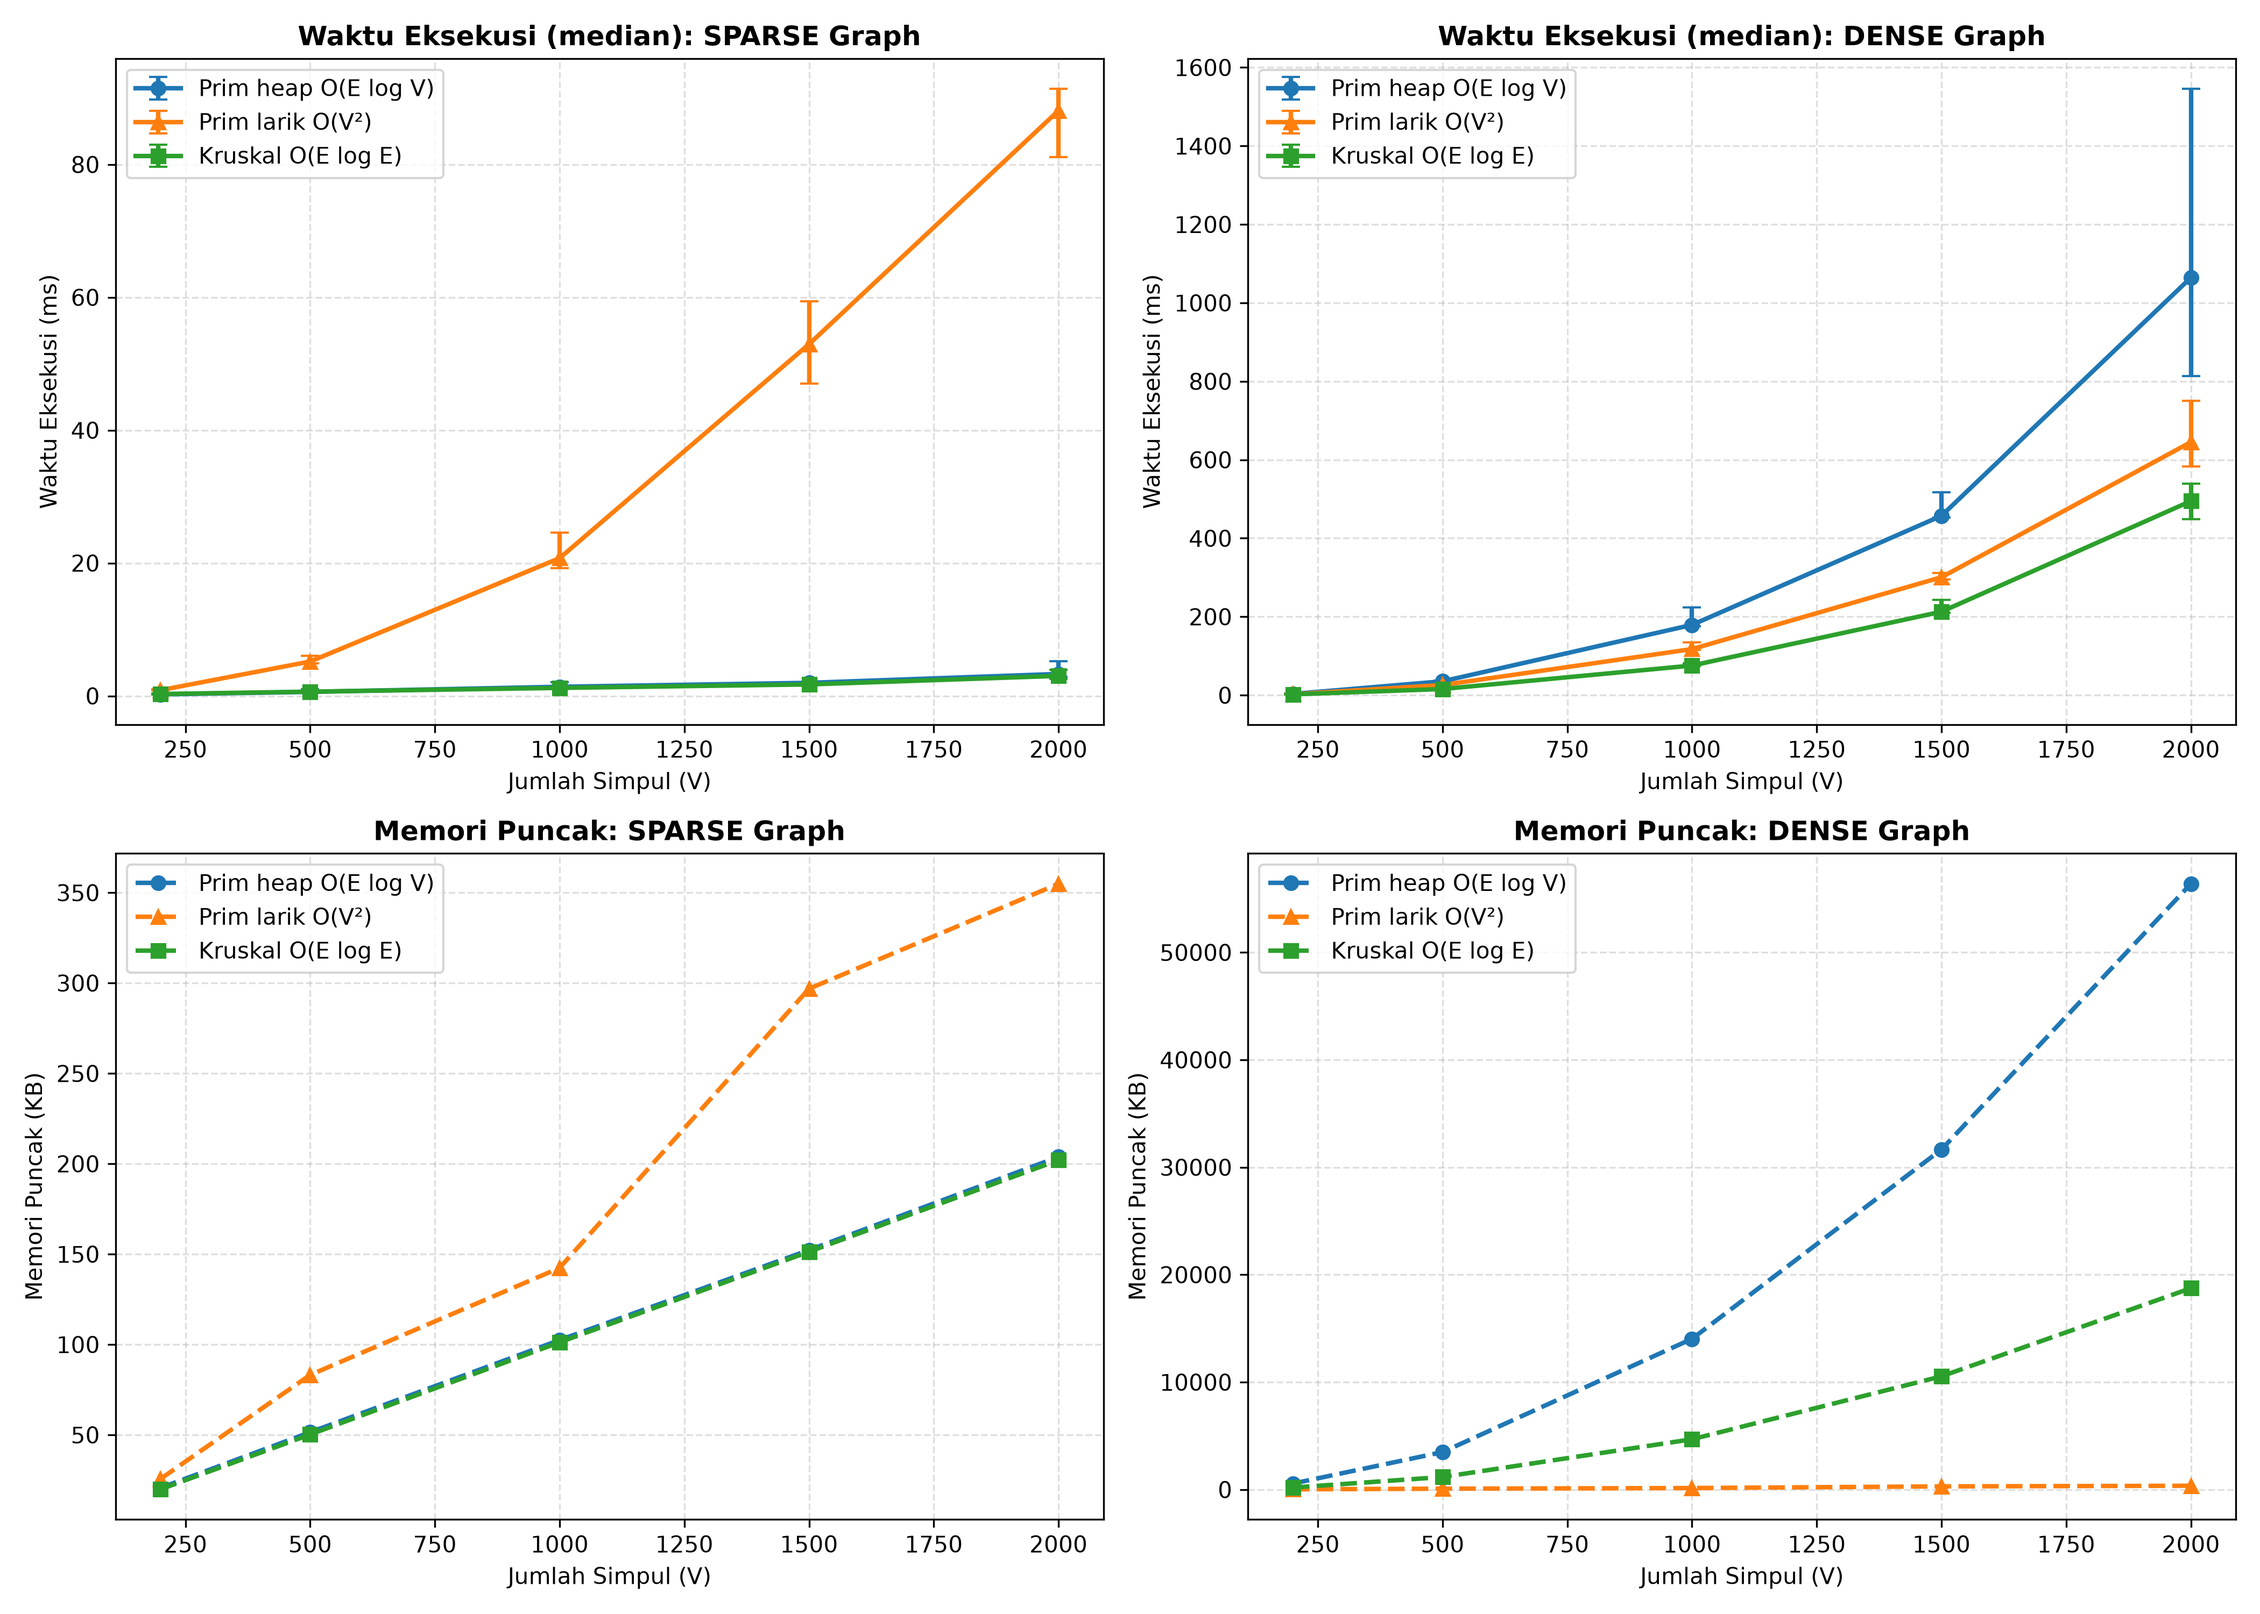
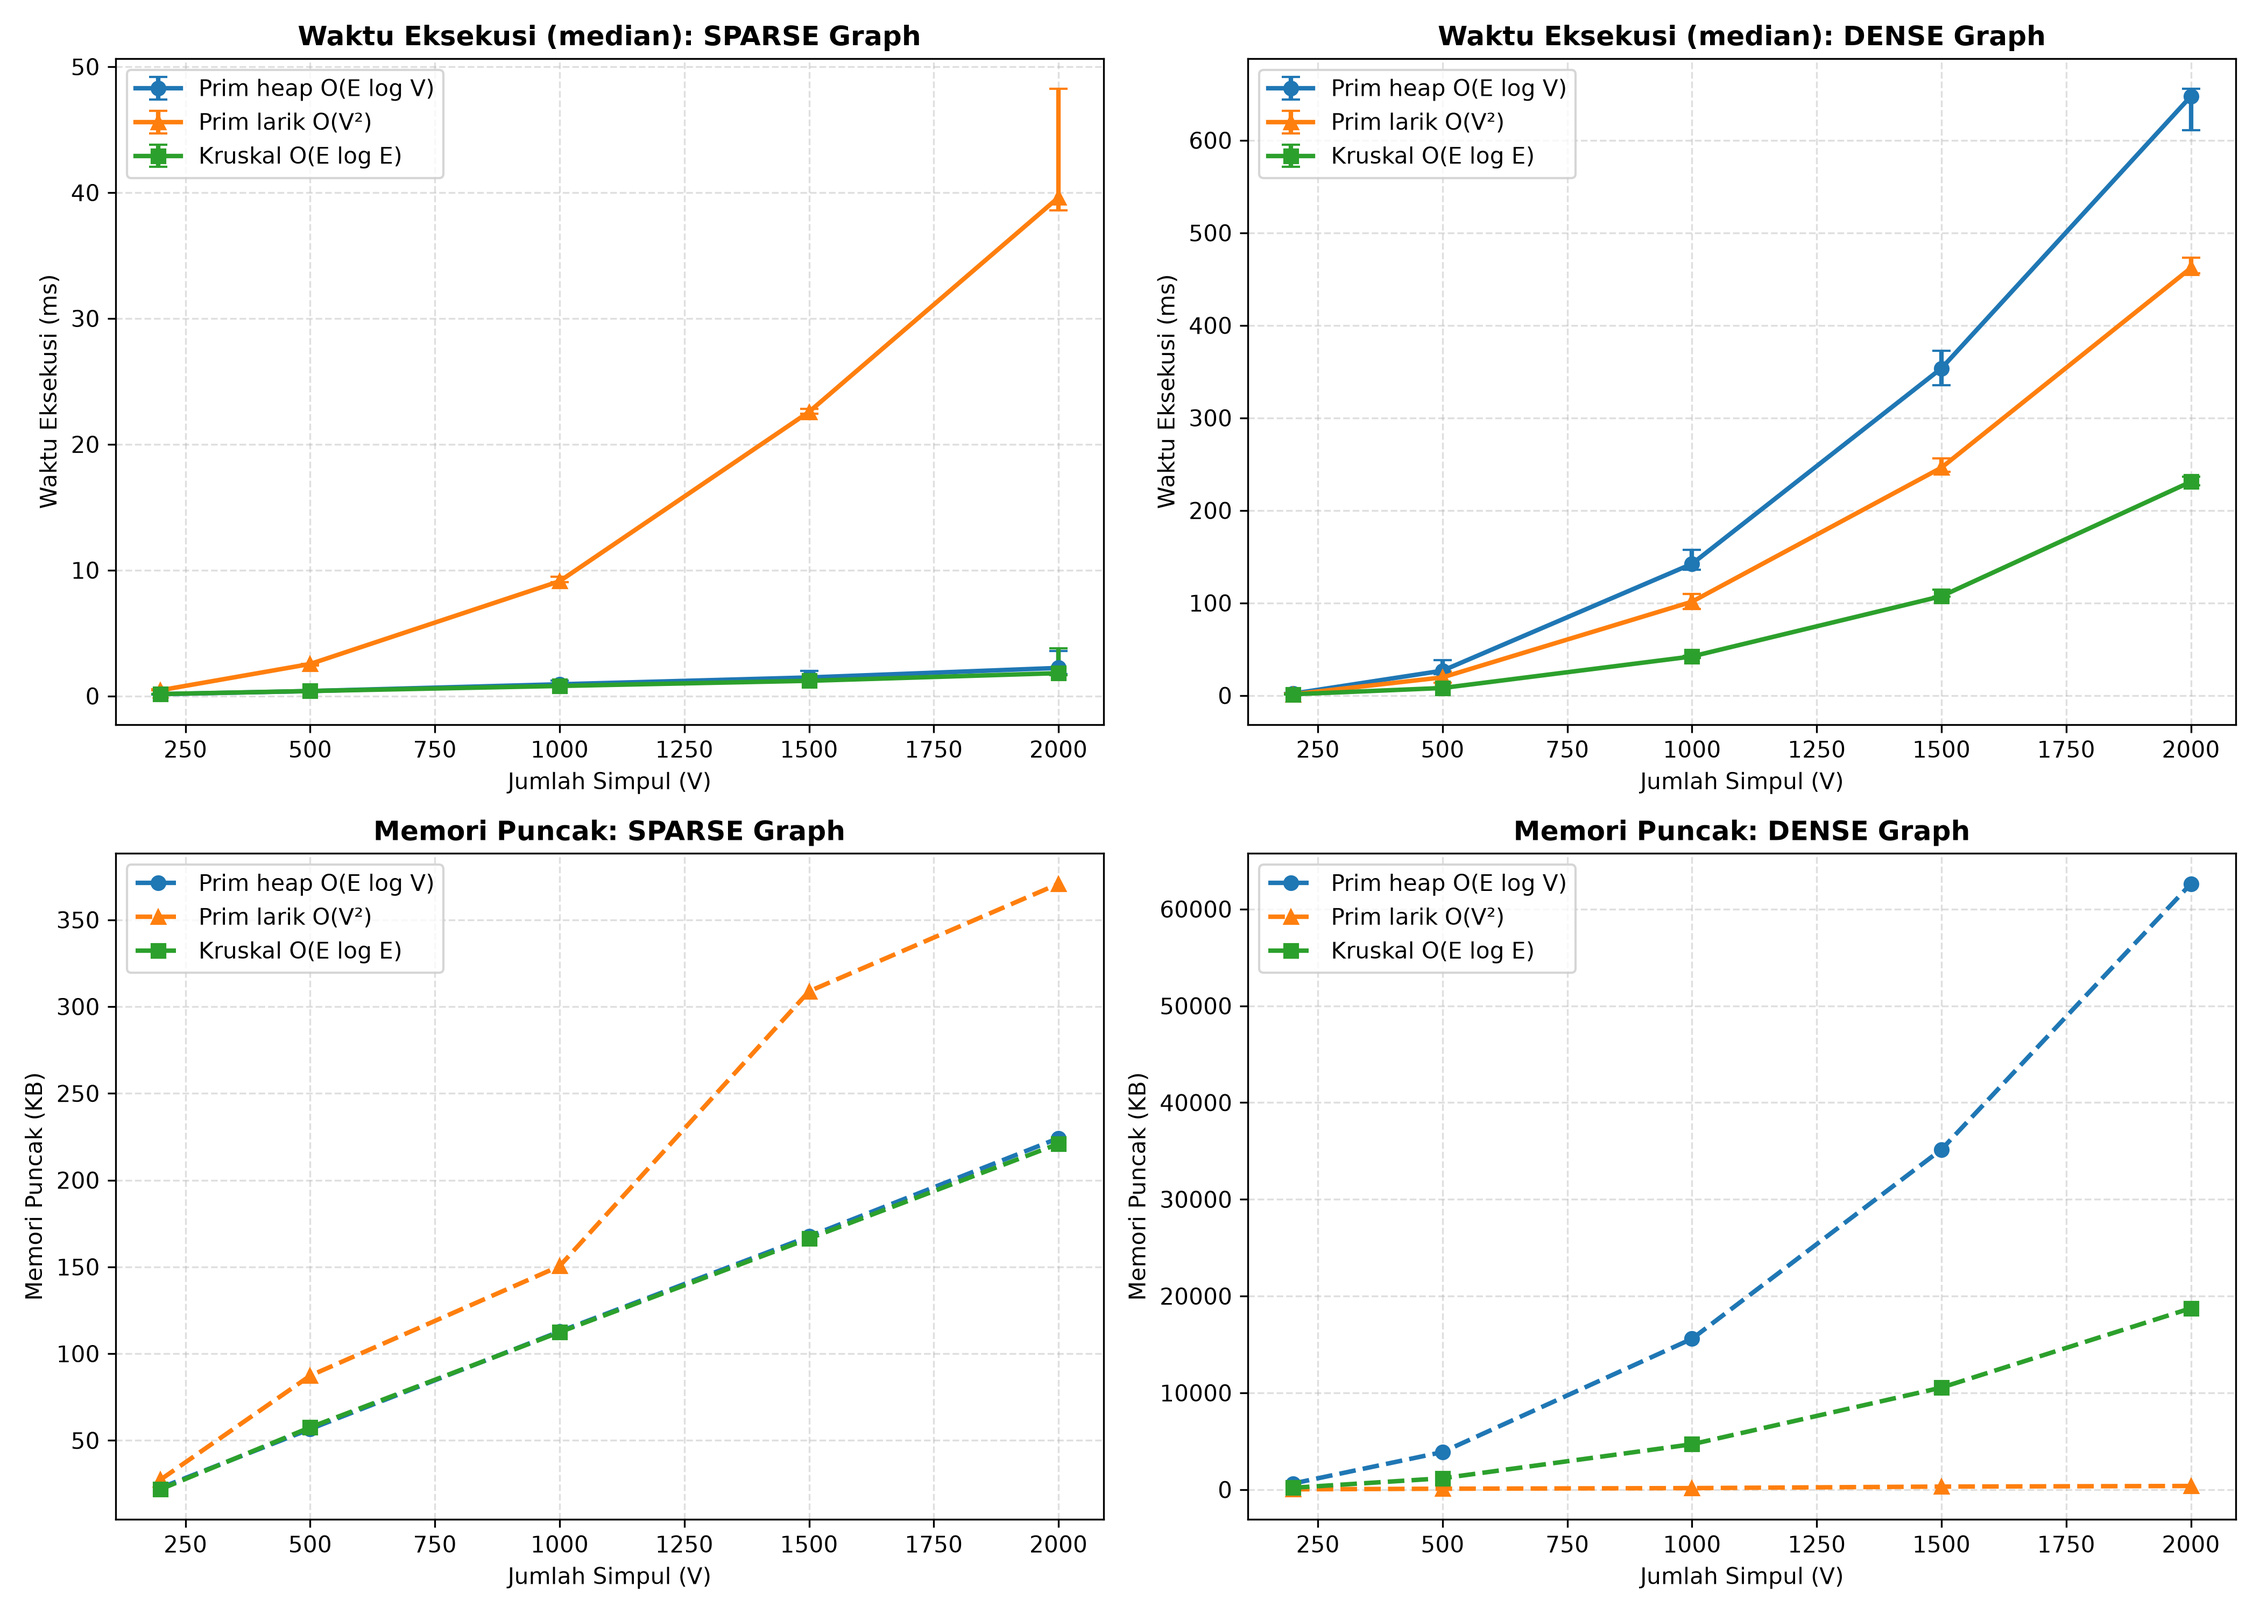
Merapikan format output CSV

diff --git a/src/evaluation/benchmark.py b/src/evaluation/benchmark.py
@@ -87,12 +87,32 @@ def measure_algorithm(func: Callable, *args, repeats: int = 5) -> Dict[str, Any]
 
 def save_osm_summary_csv(rows: List[Dict[str, Any]], output_csv_path: str) -> None:
     os.makedirs(os.path.dirname(output_csv_path), exist_ok=True)
-    with open(output_csv_path, mode="w", newline="", encoding="utf-8") as f:
-        writer = csv.DictWriter(f, fieldnames=list(rows[0].keys()))
+    with open(output_csv_path, mode="w", newline="", encoding="utf-8-sig") as f:
+        writer = csv.DictWriter(
+            f, fieldnames=list(rows[0].keys()), delimiter=";"
+        )
         writer.writeheader()
         writer.writerows(rows)
     print(f"-> Ringkasan studi kasus OSM disimpan ke '{output_csv_path}'")
 
+def save_aligned_table(rows: List[Dict[str, Any]], output_txt_path: str) -> None:
+    if not rows:
+        return
+    os.makedirs(os.path.dirname(output_txt_path), exist_ok=True)
+    headers = list(rows[0].keys())
+    col_widths = {
+        h: max(len(str(h)), max(len(str(r[h])) for r in rows)) for h in headers
+    }
+
+    header_line = " | ".join(f"{h:<{col_widths[h]}}" for h in headers)
+    separator_line = "-+-".join("-" * col_widths[h] for h in headers)
+
+    with open(output_txt_path, mode="w", encoding="utf-8") as f:
+        f.write(header_line + "\n")
+        f.write(separator_line + "\n")
+        for r in rows:
+            f.write(" | ".join(f"{str(r[h]):<{col_widths[h]}}" for h in headers) + "\n")
+    print(f"-> Tabel rapi disimpan ke '{output_txt_path}'")
 
 def save_environment(env: Dict[str, Any], path: str) -> None:
     os.makedirs(os.path.dirname(path), exist_ok=True)
@@ -166,9 +186,9 @@ def run_scalability_benchmark(
                 kb = measure_peak_kb(func, *inputs[kind])
                 for key, val in (("med", med), ("min", lo), ("max", hi), ("kb", kb)):
                     results[density][name][key].append(val)
-                row[f"{name}_ms_median"] = round(med, 4)
-                row[f"{name}_ms_min"] = round(lo, 4)
-                row[f"{name}_ms_max"] = round(hi, 4)
+                row[f"{name}_ms_median"] = round(med, 2)
+                row[f"{name}_ms_min"] = round(lo, 2)
+                row[f"{name}_ms_max"] = round(hi, 2)
                 row[f"{name}_peak_kb"] = round(kb, 2)
             row.update(prim_heap_counts(v, adj_list))
             row.update(kruskal_scan_count(v, edges))
@@ -182,10 +202,13 @@ def run_scalability_benchmark(
                 )
             )
 
-    with open(output_csv_path, mode="w", newline="", encoding="utf-8") as f:
-        writer = csv.DictWriter(f, fieldnames=list(csv_rows[0].keys()))
+    with open(output_csv_path, mode="w", newline="", encoding="utf-8-sig") as f:
+        writer = csv.DictWriter(
+            f, fieldnames=list(csv_rows[0].keys()), delimiter=";"
+        )
         writer.writeheader()
         writer.writerows(csv_rows)
+        
 
     print(f"\n-> Tabel hasil benchmark disimpan ke '{output_csv_path}'")
     return results

diff --git a/main.py b/main.py
@@ -8,6 +8,7 @@ from src.evaluation.benchmark import (
     collect_environment,
     measure_algorithm,
     run_scalability_benchmark,
+    save_aligned_table,
     save_environment,
     save_osm_summary_csv,
 )
@@ -57,22 +58,19 @@ def run_osm_case_study(repeats: int) -> None:
         total_raw = sum(w for _, _, w in edges)
         selisih = total_raw - total_mst
         row = {
-            "Radius_m": radius_m,
-            "Network_Type": net_type,
+            "Skenario": f"{radius_m}m ({net_type})",
             "V": num_v,
             "E": num_e,
-            "E_per_V": round(num_e / num_v, 3),
-            "Sisi_MST": len(mst_kruskal),
-            "Sisi_Penutup_Loop_Dibuang": num_e - (num_v - 1),
-            "Panjang_Semua_Ruas_m": round(total_raw, 2),
-            "Panjang_MST_m": round(total_mst, 2),
-            "Selisih_m": round(selisih, 2),
+            "E/V": round(num_e / num_v, 2),
+            "Loop_Dibuang": num_e - (num_v - 1),
+            "Total_Ruas_m": round(total_raw, 2),
+            "MST_m": round(total_mst, 2),
             "Selisih_persen": round(selisih / total_raw * 100.0, 2),
-            "Biaya_Ilustratif_MST_Rp": round(total_mst * BIAYA_PER_METER),
+            "Biaya_MST_Rp": f"{round(total_mst * BIAYA_PER_METER):,}",
         }
         for name, m in metrics.items():
-            row[f"{name}_ms_median"] = round(m["time_ms"], 4)
-            row[f"{name}_peak_kb"] = round(m["peak_kb"], 2)
+            row[f"{name}_ms"] = round(m["time_ms"], 2)
+            row[f"{name}_kb"] = round(m["peak_kb"], 2)
         rows.append(row)
         print("  " + ", ".join(f"{k}={v}" for k, v in row.items()))
 
@@ -89,6 +87,7 @@ def run_osm_case_study(repeats: int) -> None:
             )
 
     save_osm_summary_csv(rows, "results/tables/osm_case_study.csv")
+    save_aligned_table(rows, "results/tables/osm_case_study_rapi.txt")
 
 
 def main() -> None:
